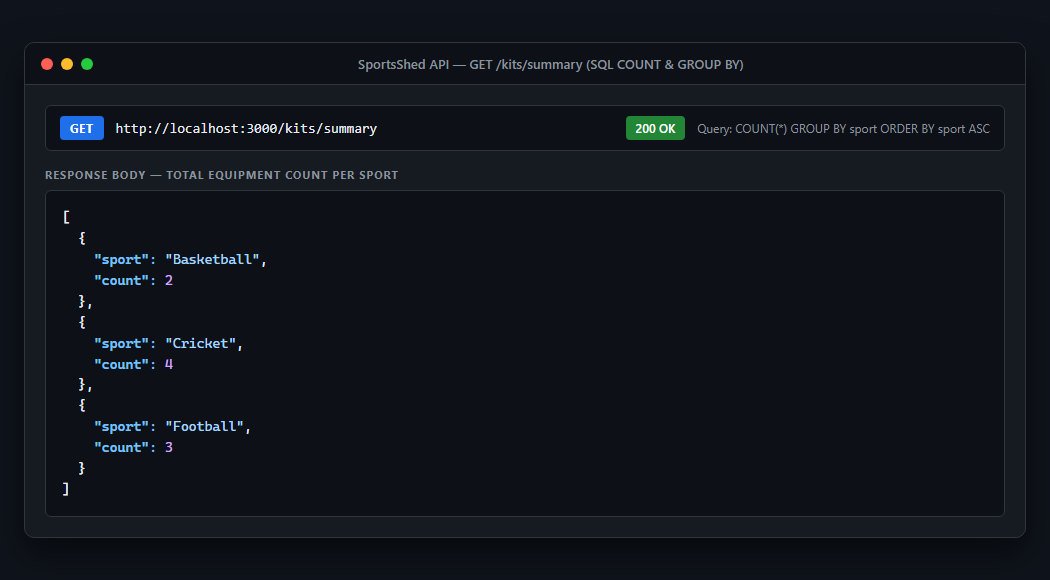
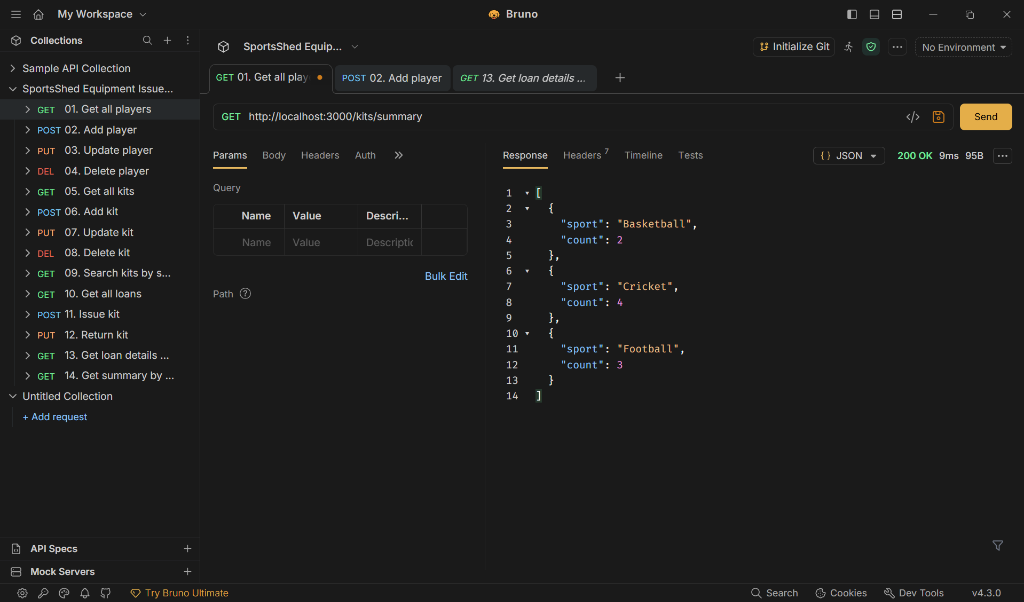
LG-05: Update screenshots with authentic IDE and API client testing evidence

diff --git a/README.md b/README.md
@@ -202,16 +202,18 @@ sports-shed/
 │   └── players.js                     # /players routes
 │
 ├── screenshots/
+│   ├── add-player.png                 # Evidence: POST /players request
 │   ├── kits-api.png                   # Evidence: GET /kits response
 │   ├── kits-search.png                # Evidence: GET /kits?search=Cricket
 │   ├── kits-summary.png               # Evidence: GET /kits/summary aggregation
 │   ├── loan-details.png               # Evidence: GET /loans/details 3-table JOIN
 │   ├── loans-api.png                  # Evidence: GET /loans response
 │   ├── players-api.png                # Evidence: GET /players response
-│   ├── postman-testing.png            # Evidence: 14/14 Postman collection tests passed
+│   ├── postman-testing.png            # Evidence: Collection testing (POST /players)
 │   ├── project-structure.png          # Evidence: Project structure in IDE explorer
 │   ├── root-api.png                   # Evidence: GET / health and endpoints overview
-│   └── server-running.png             # Evidence: Server startup in PowerShell terminal
+│   ├── server-running.png             # Evidence: Server startup in PowerShell terminal
+│   └── update-player.png              # Evidence: PUT /players/:id request
 │
 ├── tests/
 │   └── summary.test.js                # Automated integration tests (10 test cases, 0 failures)
@@ -535,8 +537,11 @@ Genuine screenshots captured directly from the running project, active endpoints
 ### 9. Loan Details API Response (3-Table SQL JOIN)
 ![Loan Details API](screenshots/loan-details.png)
 
-### 10. Postman Collection Testing Results (14/14 Tests Passed)
-![Postman Testing](screenshots/postman-testing.png)
+### 10. API Collection Testing Results (POST /players — Add Player)
+![API Testing Add Player](screenshots/postman-testing.png)
+
+### 11. API Collection Testing Results (PUT /players/:id — Update Player)
+![API Testing Update Player](screenshots/update-player.png)
 
 ---
 
